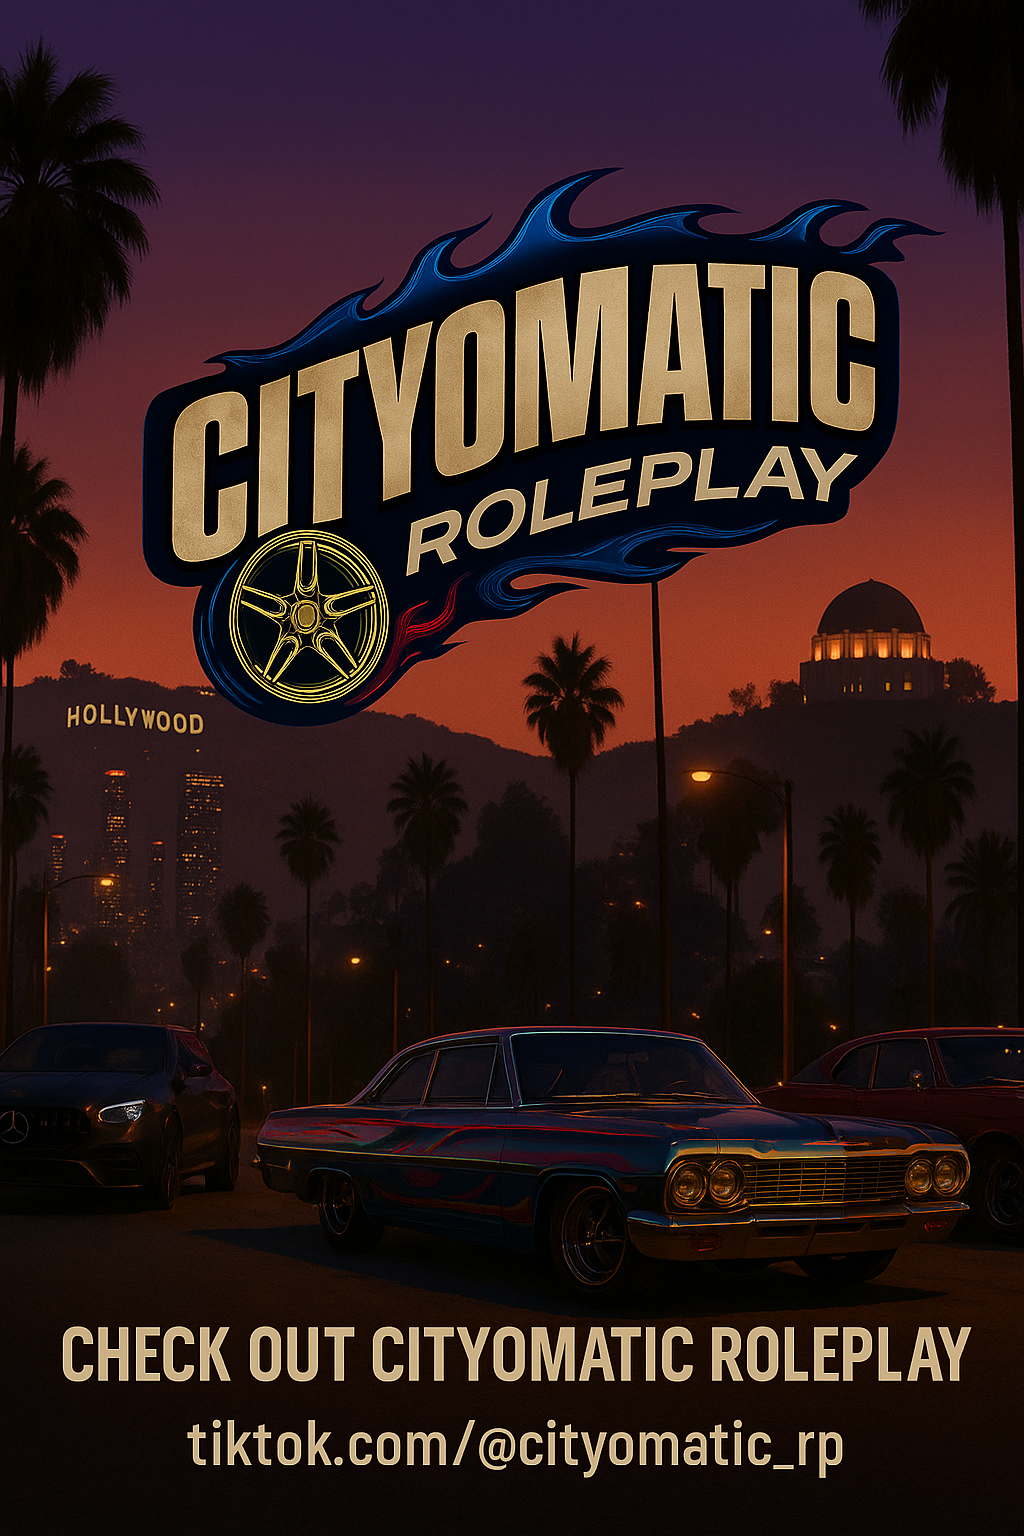
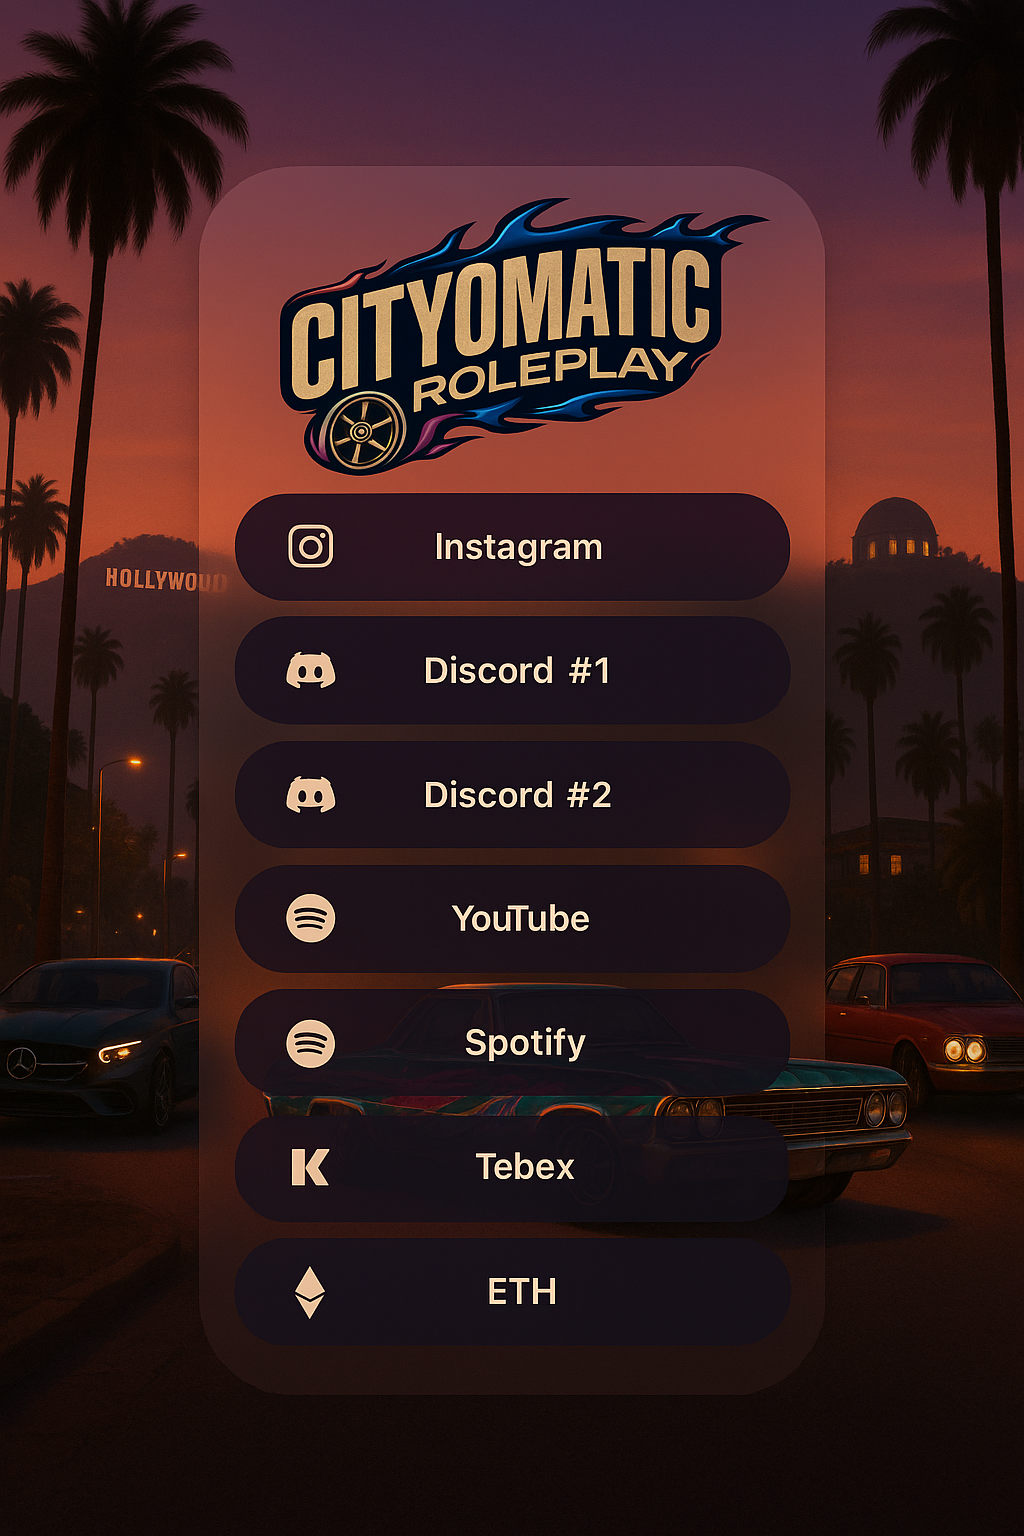
Add files via upload

diff --git a/index.html b/index.html
@@ -2,26 +2,86 @@
 <!DOCTYPE html>
 <html lang="en">
 <head>
-    <meta charset="UTF-8">
-    <title>Cityomatic Roleplay</title>
-    <style>
-        html, body {
-            margin: 0;
-            padding: 0;
-            height: 100%;
-            width: 100%;
-            background: #000;
-        }
-        #splash {
-            height: 100vh;
-            width: 100vw;
-            background: url('assets/splash.png') no-repeat center center;
-            background-size: cover;
-            cursor: pointer;
-        }
-    </style>
+  <meta charset="UTF-8" />
+  <title>Cityomatic Roleplay</title>
+  <meta name="viewport" content="width=device-width, initial-scale=1.0" />
+  <style>
+    body {
+      margin: 0;
+      padding: 0;
+      background: url('assets/background.png') no-repeat center center fixed;
+      background-size: cover;
+      font-family: Arial, sans-serif;
+      display: flex;
+      justify-content: center;
+      align-items: center;
+      min-height: 100vh;
+      color: white;
+    }
+    .container {
+      background: rgba(0, 0, 0, 0.5);
+      border-radius: 35px;
+      padding: 30px 20px;
+      width: 90%;
+      max-width: 400px;
+      text-align: center;
+      backdrop-filter: blur(10px);
+    }
+    .logo {
+      width: 100%;
+      max-width: 280px;
+      margin-bottom: 30px;
+    }
+    .link-btn {
+      display: flex;
+      align-items: center;
+      gap: 12px;
+      background: rgba(255, 255, 255, 0.1);
+      color: #fff;
+      padding: 14px 20px;
+      border-radius: 30px;
+      margin: 10px 0;
+      text-decoration: none;
+      font-size: 17px;
+      transition: 0.3s;
+      border: 2px solid rgba(255, 255, 255, 0.15);
+    }
+    .link-btn:hover {
+      background: rgba(255, 255, 255, 0.2);
+    }
+    .icon {
+      width: 24px;
+      text-align: center;
+    }
+    .top-right {
+      position: fixed;
+      top: 12px;
+      right: 12px;
+    }
+    .top-right a {
+      background: rgba(0, 0, 0, 0.7);
+      color: white;
+      padding: 8px 14px;
+      border-radius: 8px;
+      text-decoration: none;
+      font-size: 14px;
+    }
+  </style>
+  <link href="https://cdnjs.cloudflare.com/ajax/libs/font-awesome/6.4.0/css/all.min.css" rel="stylesheet">
 </head>
 <body>
-    <div id="splash" onclick="window.location.href='links.html'"></div>
+  <div class="top-right">
+    <a href="livestream.html">Live Stream</a>
+  </div>
+  <div class="container">
+    <img class="logo" src="assets/logo.png" alt="Cityomatic Roleplay Logo">
+    <a class="link-btn" href="#"><i class="fab fa-instagram icon"></i> Instagram</a>
+    <a class="link-btn" href="#"><i class="fab fa-discord icon"></i> Discord #1</a>
+    <a class="link-btn" href="#"><i class="fab fa-discord icon"></i> Discord #2</a>
+    <a class="link-btn" href="#"><i class="fab fa-youtube icon"></i> YouTube</a>
+    <a class="link-btn" href="#"><i class="fab fa-spotify icon"></i> Spotify</a>
+    <a class="link-btn" href="#"><i class="fas fa-shopping-cart icon"></i> Tebex</a>
+    <a class="link-btn" href="#"><i class="fab fa-ethereum icon"></i> ETH</a>
+  </div>
 </body>
 </html>

diff --git a/livestream.html b/livestream.html
@@ -65,13 +65,13 @@
 </head>
 <body>
   <div class="nav">
-    <a href="links.html">&larr; Back to Home</a>
+    <a href="index.html">&larr; Back to Home</a>
   </div>
   <div class="container">
     <div class="stream-buttons">
       <div class="status">Offline</div><br>
-      <a href="#" onclick="alert('Kick stream coming soon')">Watch on Kick</a>
-      <a href="#" onclick="alert('Twitch stream coming soon')">Watch on Twitch</a>
+      <a href="#">Watch on Kick</a>
+      <a href="#">Watch on Twitch</a>
     </div>
     <div class="bio">
       <h3>Meet Cityomatic</h3>
